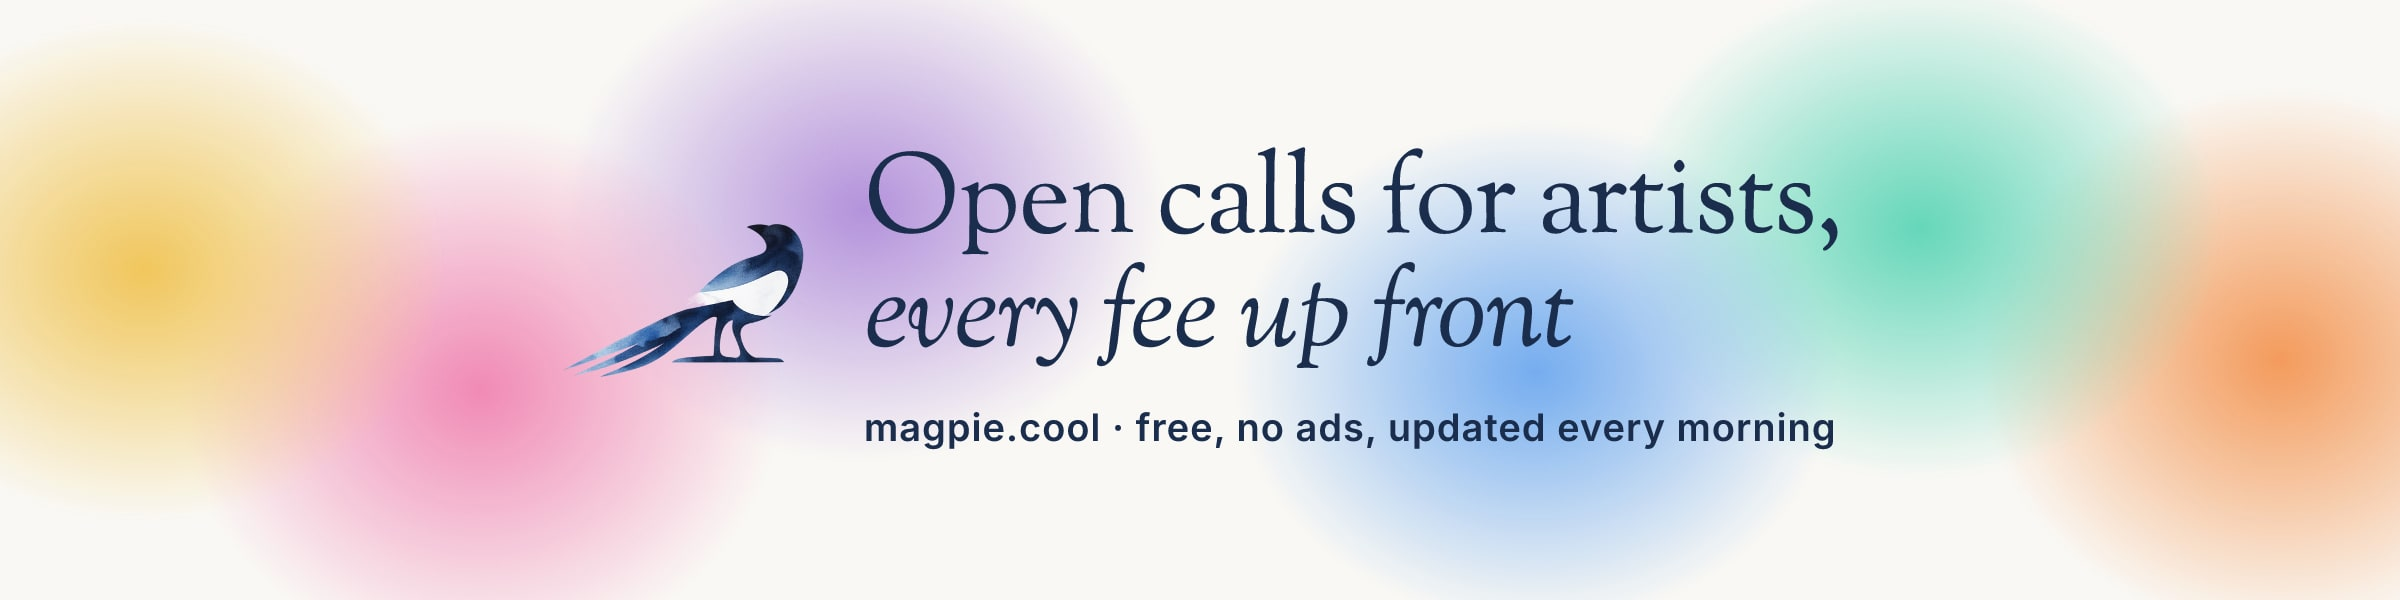
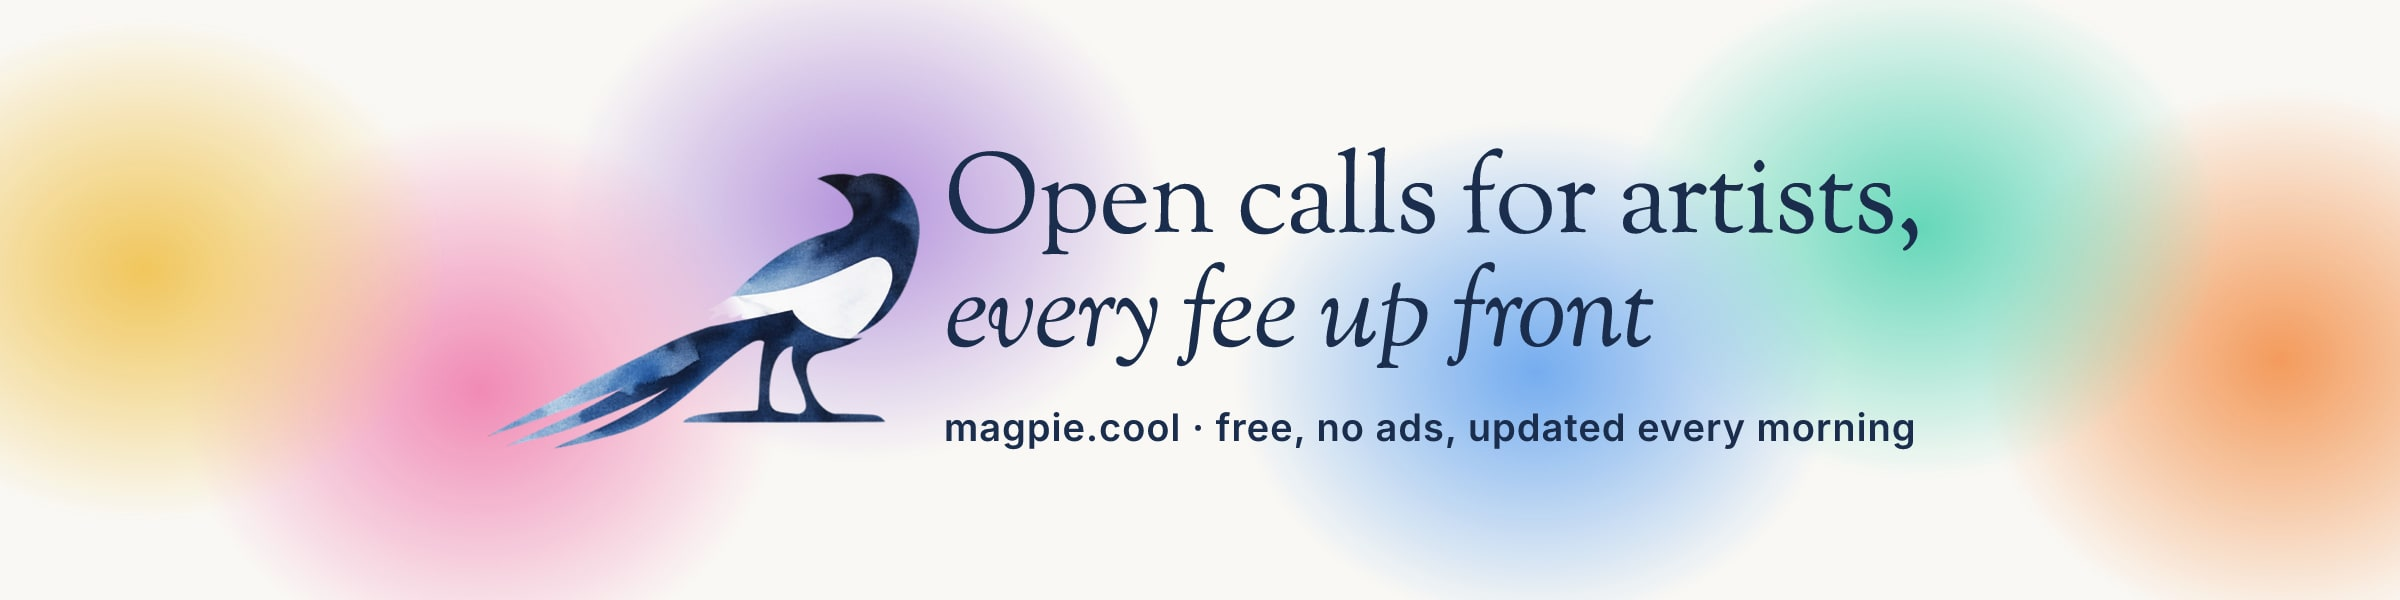
Buy Me a Coffee cover: bigger magpie, lined up with the headline

Changed region(s): [[0.1875, 0.24, 0.8125, 0.75]]

diff --git a/scripts/bmac-cover.ts b/scripts/bmac-cover.ts
@@ -28,7 +28,7 @@ const blobs = [
 
 const tree = h('div', { width: W, height: H, display: 'flex', alignItems: 'center', justifyContent: 'center', gap: 56,
   backgroundColor: '#faf9f6', backgroundImage: blobs, color: '#1f3456' },
-  h('img', { width: 250, height: 250 }),
+  h('img', { width: 450, height: 450, marginRight: -40, marginTop: 20 }),
   h('div', { display: 'flex', flexDirection: 'column' },
     h('div', { fontFamily: 'Goudy', fontSize: 112, lineHeight: 1.0, letterSpacing: -1.5 }, 'Open calls for artists,'),
     h('div', { fontFamily: 'Goudy', fontStyle: 'italic', fontSize: 112, lineHeight: 1.05, letterSpacing: -1.5 }, 'every fee up front'),
